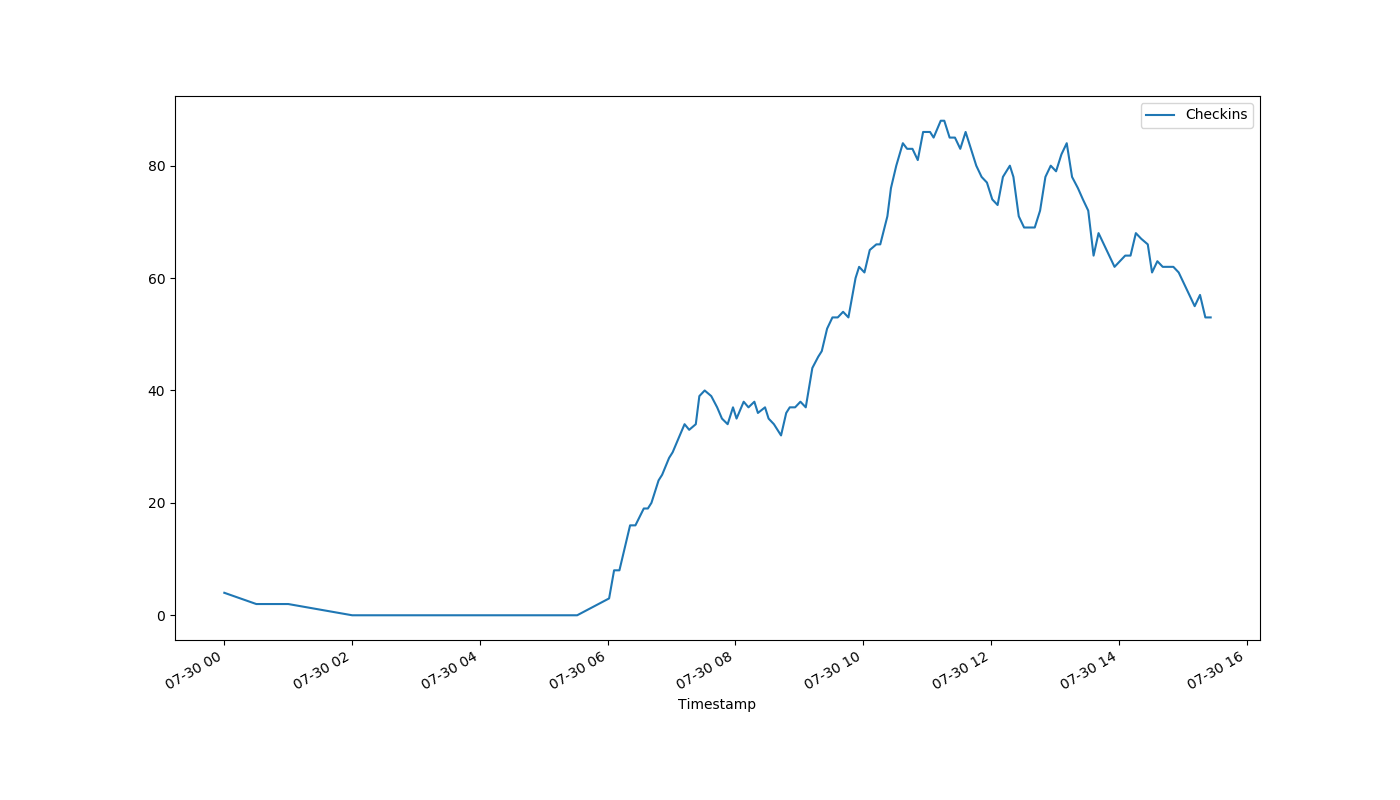
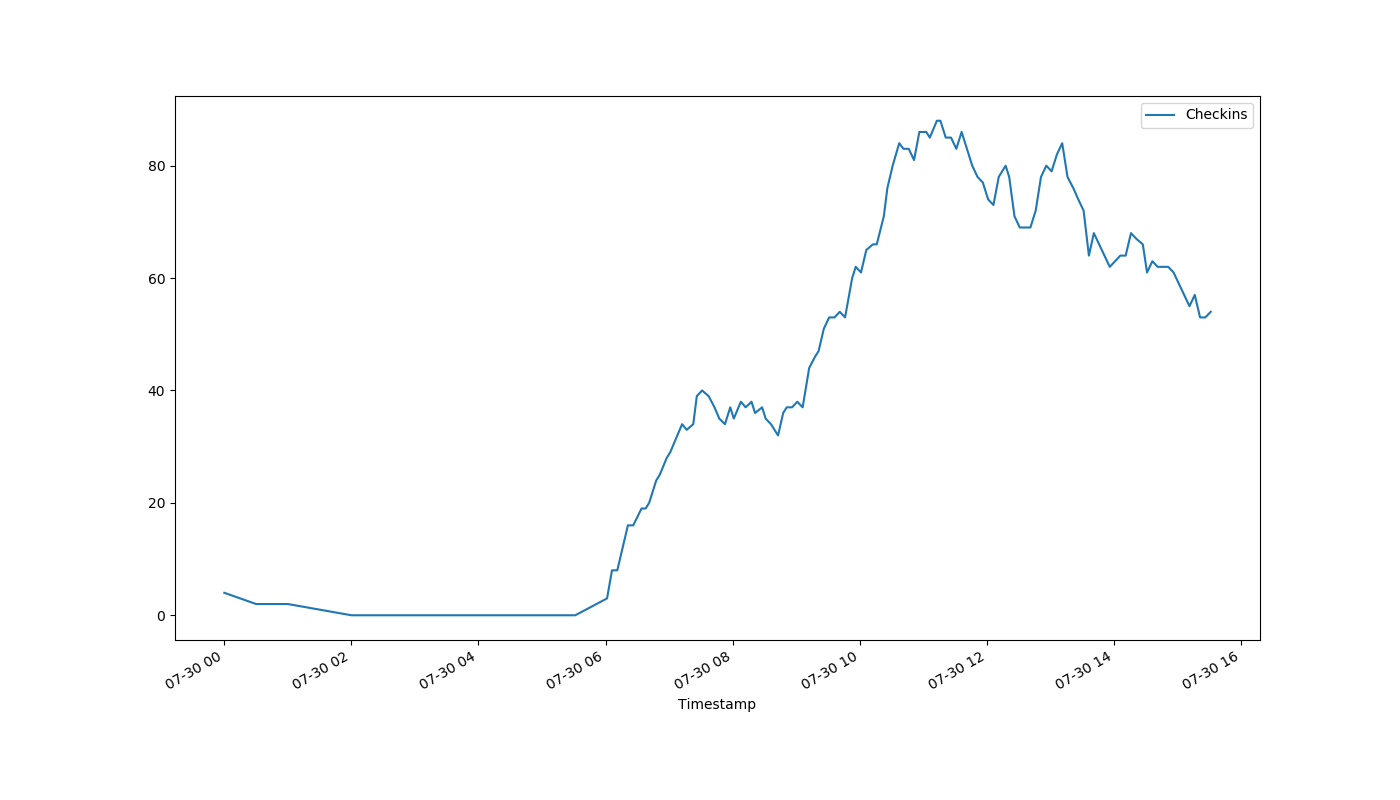
auto-Jul-30-15:32:15

diff --git a/index.html b/index.html
@@ -1,1 +1,1 @@
-<!DOCTYPE html><html><head><meta http-equiv="refresh" content="30"><link rel='stylesheet' href='holmcurrent.css'></head><body><p id='count'>53</p><div id='graph-wrap'><img id='graph' src='holmgraph-Jul-30.png'></div><p id='updated'>Last updated 15:26:18 / 15:26:17</p></body></html>
+<!DOCTYPE html><html><head><meta http-equiv="refresh" content="30"><link rel='stylesheet' href='holmcurrent.css'></head><body><p id='count'>54</p><div id='graph-wrap'><img id='graph' src='holmgraph-Jul-30.png'></div><p id='updated'>Last updated 15:31:18 / 15:31:18</p></body></html>
